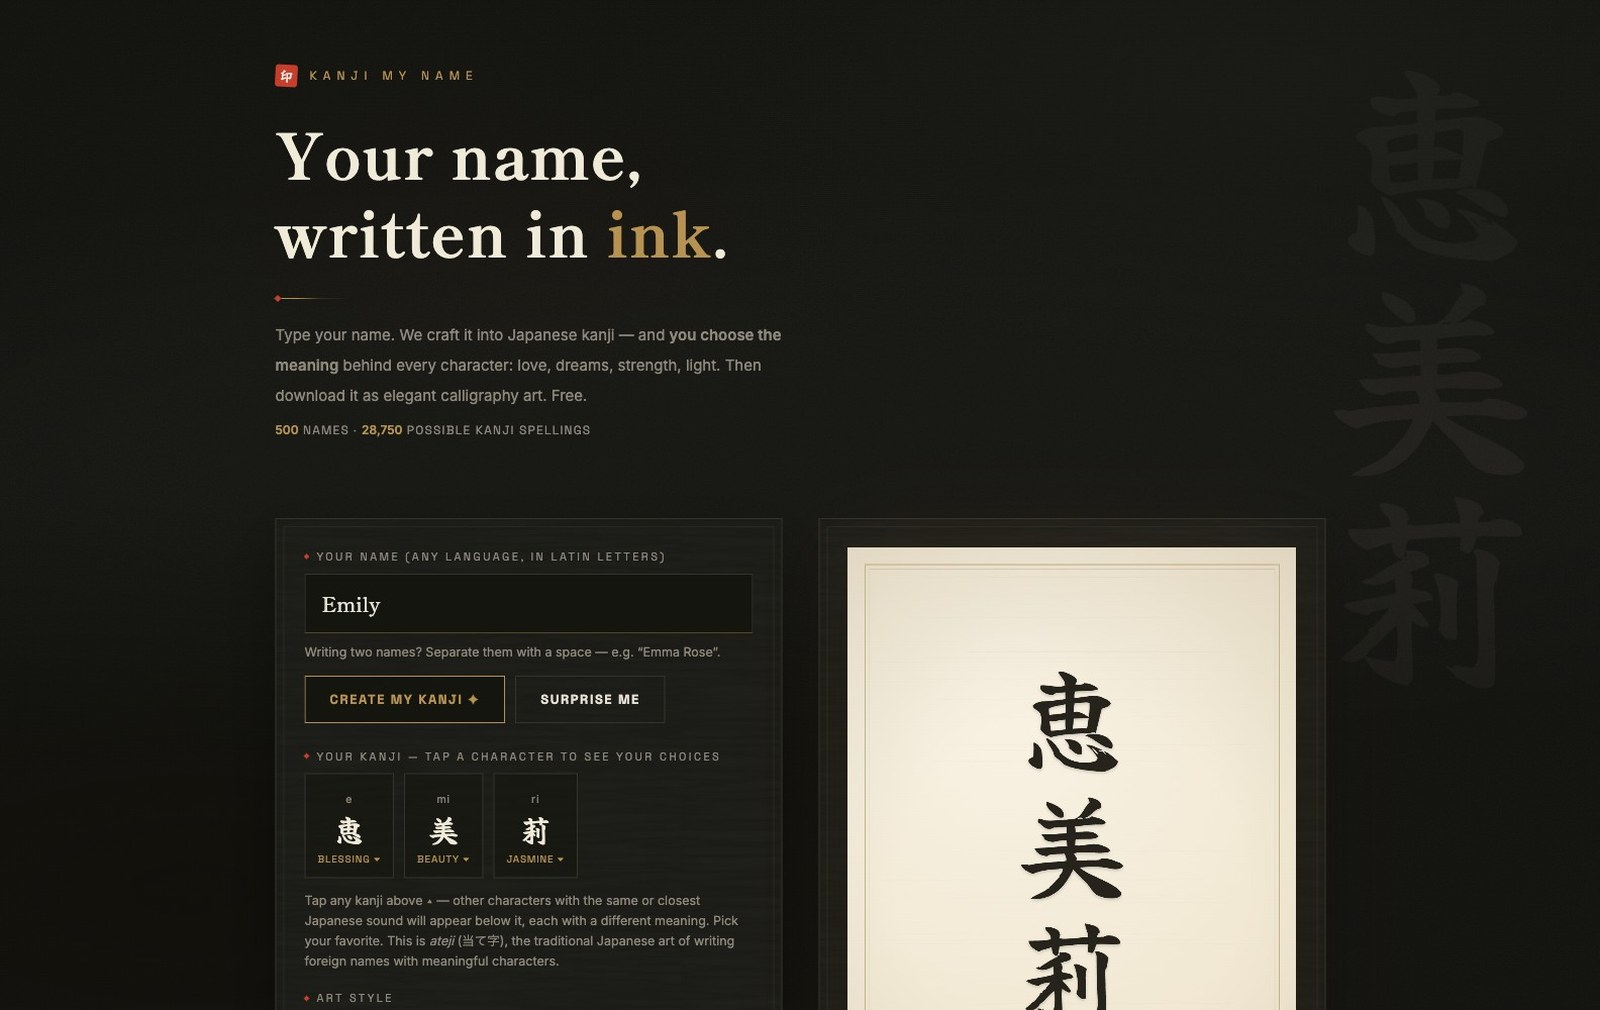
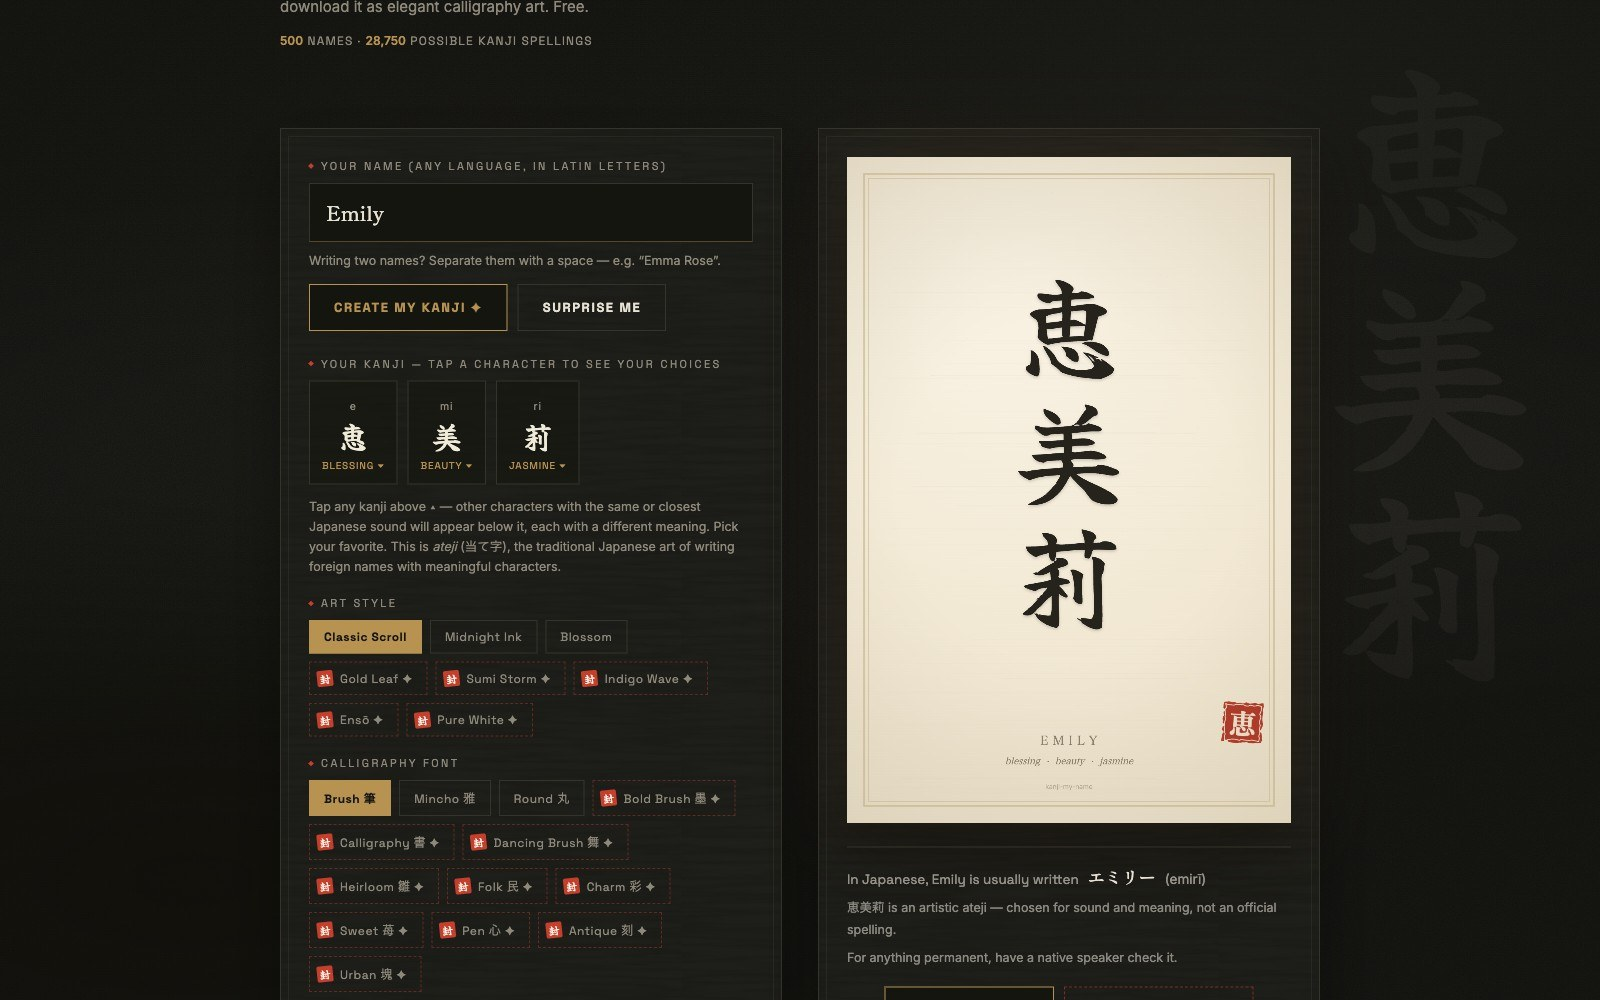
Press: reframe Kanji My Name thumbnail to show the calligraphy art
Claude-Session: https://claude.ai/code/session_01Rotwzx3TuTC2693jE7QE8v

diff --git a/press/kanji-my-name-launch.html b/press/kanji-my-name-launch.html
@@ -60,7 +60,7 @@
     <time datetime="2026-09-02">2026.09.02</time>
   </div>
   <h1 class="rv rv-d1">名前を漢字の書道アートに。<br>日本語教師監修の無料Webサービス「Kanji My Name」を公開</h1>
-  <figure class="a-hero rv rv-d2"><img src="../assets/img/press-kanjimyname.jpg" alt="Kanji My Name トップページ（Your name, written in ink.）" style="width:100%;height:100%;object-fit:cover;object-position:top;display:block"></figure>
+  <figure class="a-hero rv rv-d2"><img src="../assets/img/press-kanjimyname.jpg" alt="Kanji My Name トップページ（Your name, written in ink.）" style="width:100%;height:100%;object-fit:cover;display:block"></figure>
   <div class="a-body rv rv-d2">
     <p>くうが株式会社（本社：愛知県名古屋市、代表取締役：久我 瞳）は、アルファベットの名前を意味のある<strong>当て字漢字</strong>に変換し、書道風のアートとして楽しめる世界向けWebサービス<strong>「Kanji My Name」</strong>を公開しました。英語圏をはじめ海外のユーザーに向けた英語サービスで、登録不要・無料で利用できます。</p>
     <p>サービスURL：<a href="https://kanji.kugainc.com/" target="_blank" rel="noopener" style="color:var(--accent-deep)">kanji.kugainc.com</a></p>

diff --git a/en/press/kanji-my-name-launch.html b/en/press/kanji-my-name-launch.html
@@ -60,7 +60,7 @@
     <time datetime="2026-09-02">2026.09.02</time>
   </div>
   <h1 class="rv rv-d1">KUGA Inc. launches Kanji My Name,<br>a free kanji name art generator reviewed by a Japanese-language teacher</h1>
-  <figure class="a-hero rv rv-d2"><img src="../../assets/img/press-kanjimyname.jpg" alt="Homepage of Kanji My Name: Your name, written in ink." style="width:100%;height:100%;object-fit:cover;object-position:top;display:block"></figure>
+  <figure class="a-hero rv rv-d2"><img src="../../assets/img/press-kanjimyname.jpg" alt="Homepage of Kanji My Name: Your name, written in ink." style="width:100%;height:100%;object-fit:cover;display:block"></figure>
   <div class="a-body rv rv-d2">
     <p>KUGA Inc. (Nagoya, Japan; CEO Hitomi Kuga) today launched <strong>Kanji My Name</strong>, a free web service that turns a name written in Latin letters into meaningful Japanese kanji and renders it as calligraphy-style art. It is made in Japan for people everywhere, works in any modern browser, and needs no account.</p>
     <p>Try it: <a href="https://kanji.kugainc.com/" target="_blank" rel="noopener" style="color:var(--accent-deep)">kanji.kugainc.com</a></p>
